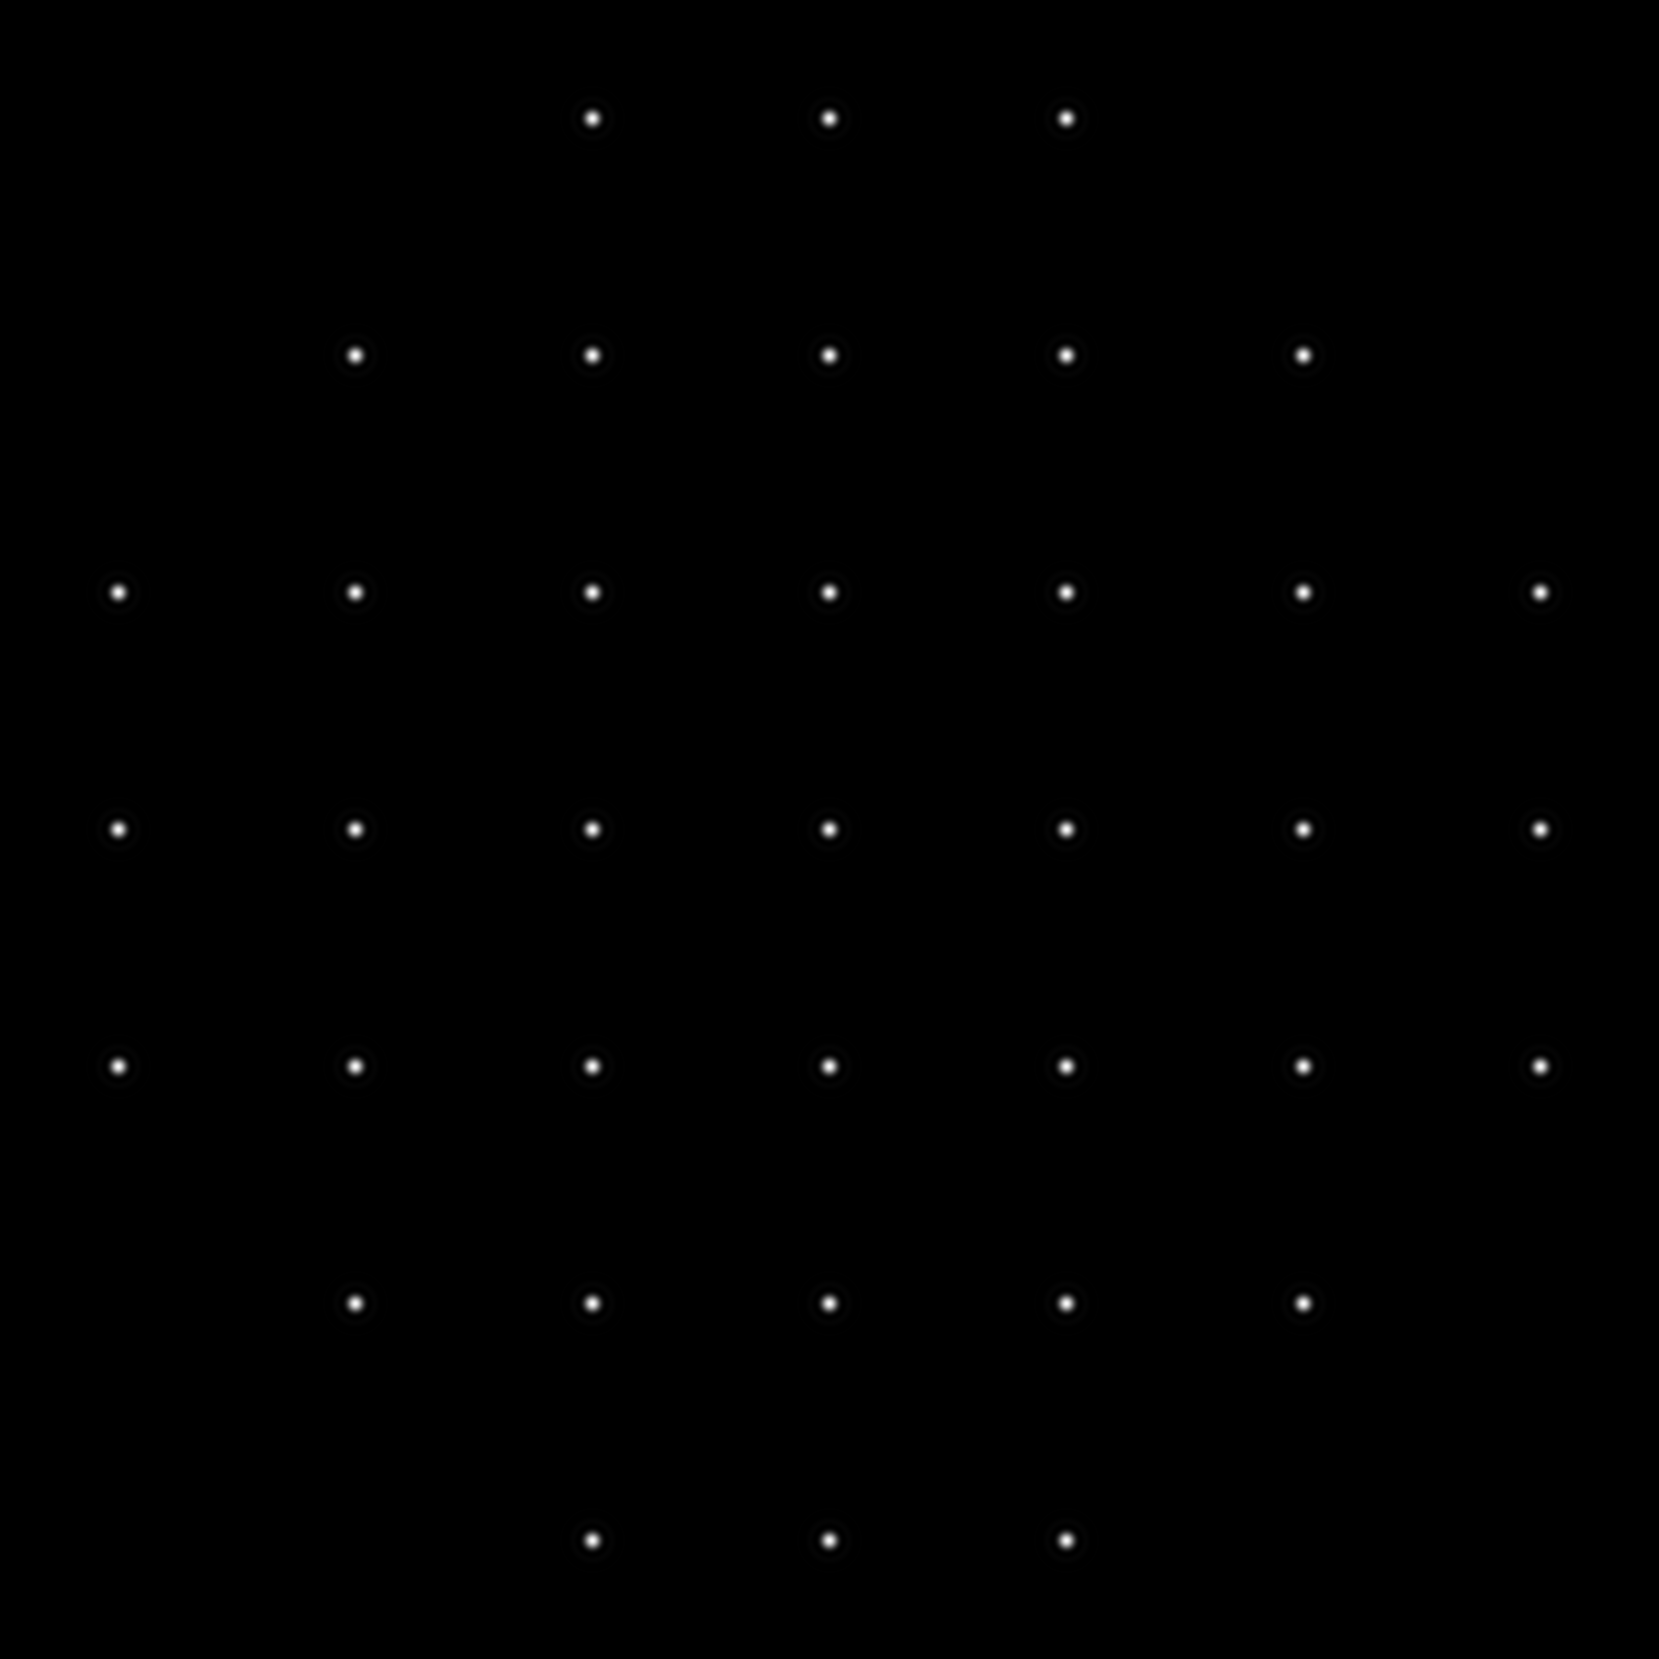
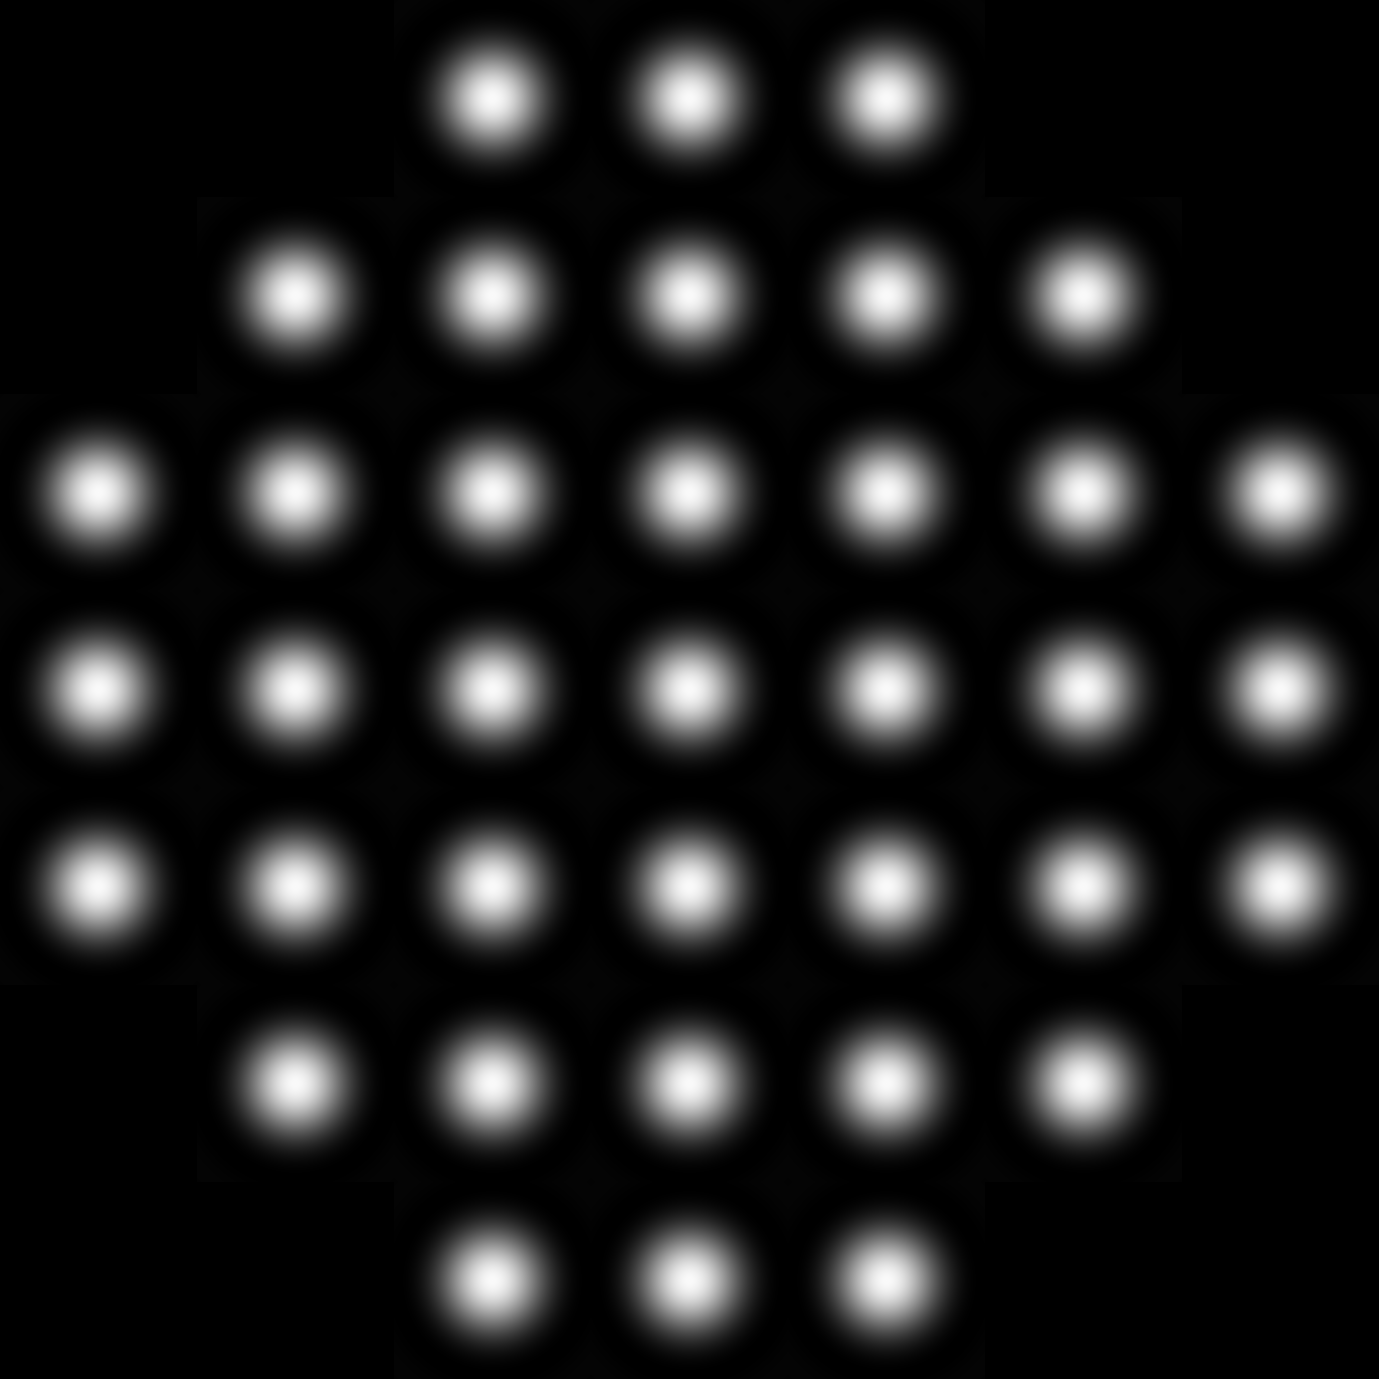
hotfix: sensor-distance scaling issues

diff --git a/src/classes/blobshift.py b/src/classes/blobshift.py
@@ -70,7 +70,7 @@ def zernike_displacement(coefficients):
         result_x = c / 1000 * np.vectorize(func)(X,Y) # coefficient / 1000 to convert units µm -> mm 
         results_x.append(result_x) 
 
-    x_displacement = np.sum(results_x, axis = 0) * 2000 # Multiplied by the mask - sensor distance
+    x_displacement = np.sum(results_x, axis = 0) * 20E3 # Multiplied by the mask - sensor distance
 
     # Calculate y displacement for given Zernike coefficients
     results_y = []
@@ -78,7 +78,7 @@ def zernike_displacement(coefficients):
         result_y = c / 1000 * np.vectorize(func)(X, Y) # coefficient / 1000 to convert units µm -> mm 
         results_y.append(result_y)
 
-    y_displacement = np.sum(results_y, axis = 0)  * 2000 # Multiplied by the mask - sensor distance
+    y_displacement = np.sum(results_y, axis = 0)  * 20E3 # Multiplied by the mask - sensor distance [µm]
 
     # Return values
     return x_displacement, y_displacement
@@ -91,7 +91,7 @@ if __name__ == "__main__":
         0,  # Z1
         0,  # Z2
         0,  # Z3
-        5,  # Z4
+        2,  # Z4
         0,  # Z5
         0,  # Z6
         0,  # Z7
@@ -103,6 +103,7 @@ if __name__ == "__main__":
         0,  # Z13
         0,  # Z14
     ])
+    
     shift_x, shift_y = zernike_displacement(coeff)
     print(np.round(shift_x))
-    # print(shift_y)
+    print(np.round(shift_y))

diff --git a/src/classes/diffraction_blur.py b/src/classes/diffraction_blur.py
@@ -26,8 +26,8 @@ class CircularAperture:
     def diffraction_pattern(self, wavelength, distance):
         k = 2 * np.pi / wavelength
         a = self.diameter / 2
-        x = np.arange(-int(0.5*1.55*self.diameter), int(0.5*1.55*self.diameter)+1, 1)
-        y = np.arange(-int(0.5*1.55*self.diameter), int(0.5*1.55*self.diameter)+1, 1)
+        x = np.arange(-int(1*self.diameter/1.55), int(1*self.diameter/1.55)+1, 1) # Discretized to represent pixelated sensor measurements
+        y = np.arange(-int(1*self.diameter/1.55), int(1*self.diameter/1.55)+1, 1) # Discretized to represent pixelated sensor measurements
         X, Y = np.meshgrid(x, y)
         R = np.sqrt(X**2 + Y**2)
         R[R==0] = np.finfo(float).eps
@@ -145,7 +145,7 @@ if __name__ == "__main__":
     ## Example for a 152.4µm diameter aperture, 3mm away, using 0.6µm wavelength light
     aperture = CircularAperture(152.4, 5, np.round(shift_x).astype(int), np.round(shift_y).astype(int))
     #aperture = CircularAperture(152.4, 5)
-    pattern = aperture.diffraction_pattern(0.6, 3E3)
+    pattern = aperture.diffraction_pattern(0.6, 20E3)
     # aperture.plot_diffraction_pattern(pattern)
     image = aperture.create_diffraction_grid(pattern)
     # Create the diffraction pattern plot

diff --git a/src/classes/zernikesolver.py b/src/classes/zernikesolver.py
@@ -33,7 +33,7 @@ class ZernikeSolver:
     # Gets the vectors of a grid and converts it to an array
     def grid_vecs_to_array(self):
         vecs = self.grid.find_vectors_to_centroids()
-        self.vector_array = [v.x_length for v in vecs] + [v.y_length for v in vecs]
+        self.vector_array = (([v.x_length for v in vecs] + [v.y_length for v in vecs]) / 20E3) # divided by the mask-to-sensor distance
 
     # Calculates the transformation matrix for wavefront reconstruction
     # Zernike Polynomials Z(x,y) to the 4th Degree:
@@ -105,4 +105,4 @@ class ZernikeSolver:
     # returns: a vector of the coefficients of the Zernike functions which
     #          describes the light wave
     def solve(self):
-        return np.matmul(np.linalg.pinv(self.t_matrix), self.vector_array)
+        return np.matmul(np.linalg.pinv(self.t_matrix), self.vector_array) 
